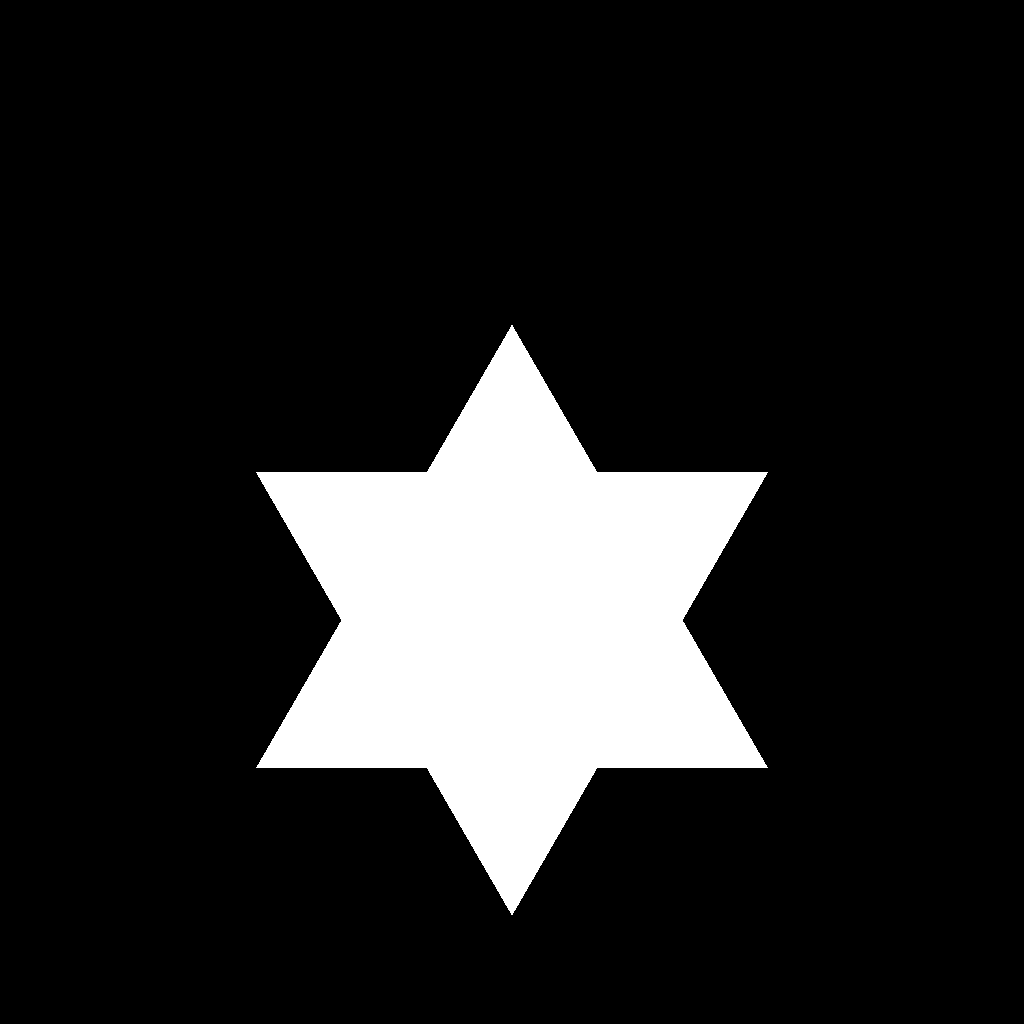
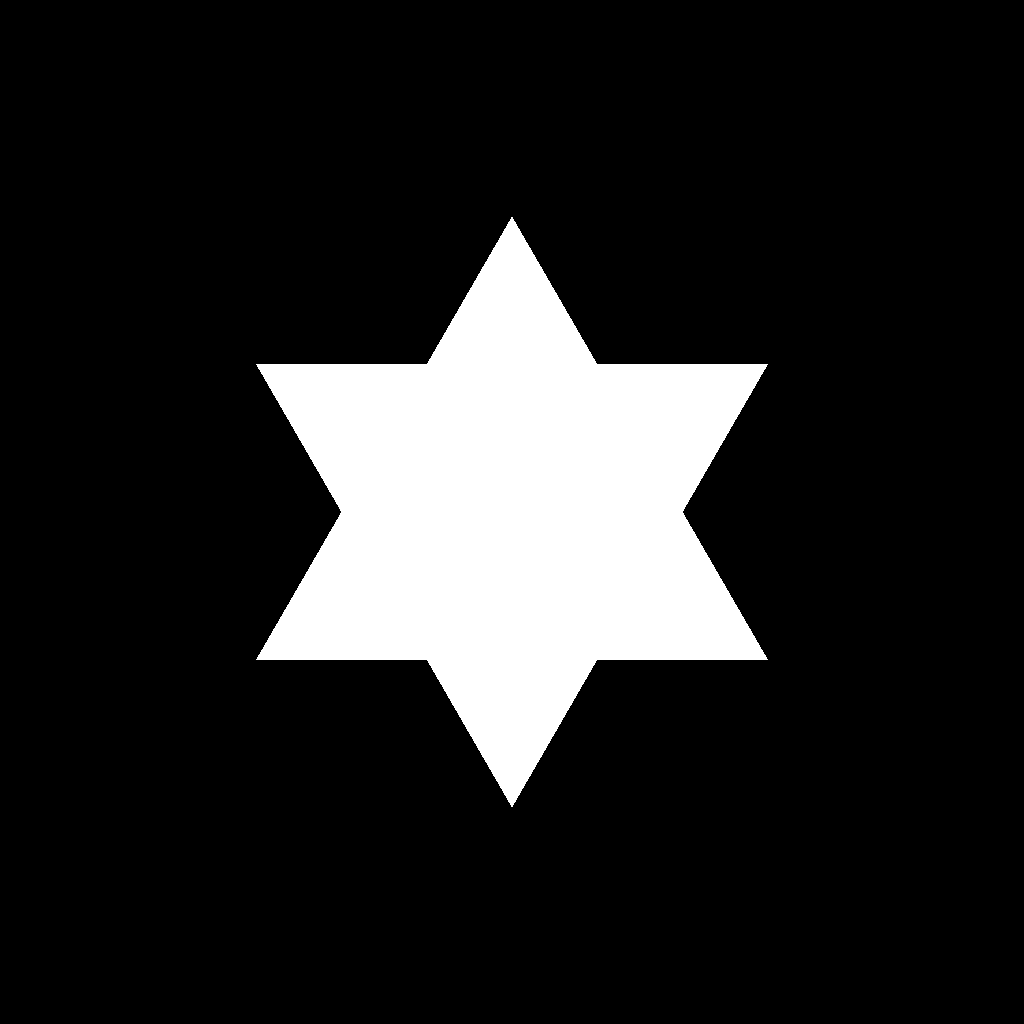
Centered triangle

Changed region(s): [[0.25, 0.2188, 0.75, 0.9062]]

diff --git a/src/main.rs b/src/main.rs
@@ -36,9 +36,9 @@ fn main() {
 
 	// Vertices correspond to two triangles (one for each half of the screen); both triangles cover entire screen
 	let vertices: Vec<Vertex> = [
-		Vertex { position: [0.5, 0.5] },
-		Vertex { position: [-0.5, 0.5] },
-		Vertex { position: [0.0, 0.5 - 3f32.sqrt() / 2f32] }
+		Vertex { position: [ 0.5,  1f32 / 3f32.sqrt() / 2f32] },
+		Vertex { position: [-0.5,  1f32 / 3f32.sqrt() / 2f32] },
+		Vertex { position: [ 0.0, -1f32 / 3f32.sqrt()       ] }
 	].to_vec();
 
 	let imageSize = 1024;
